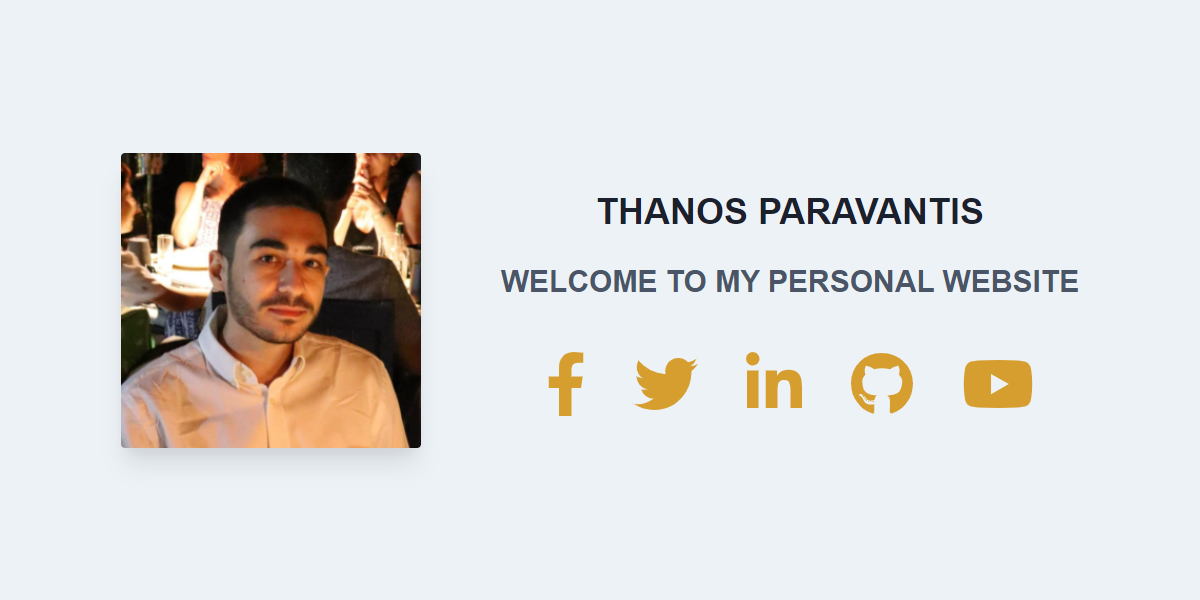
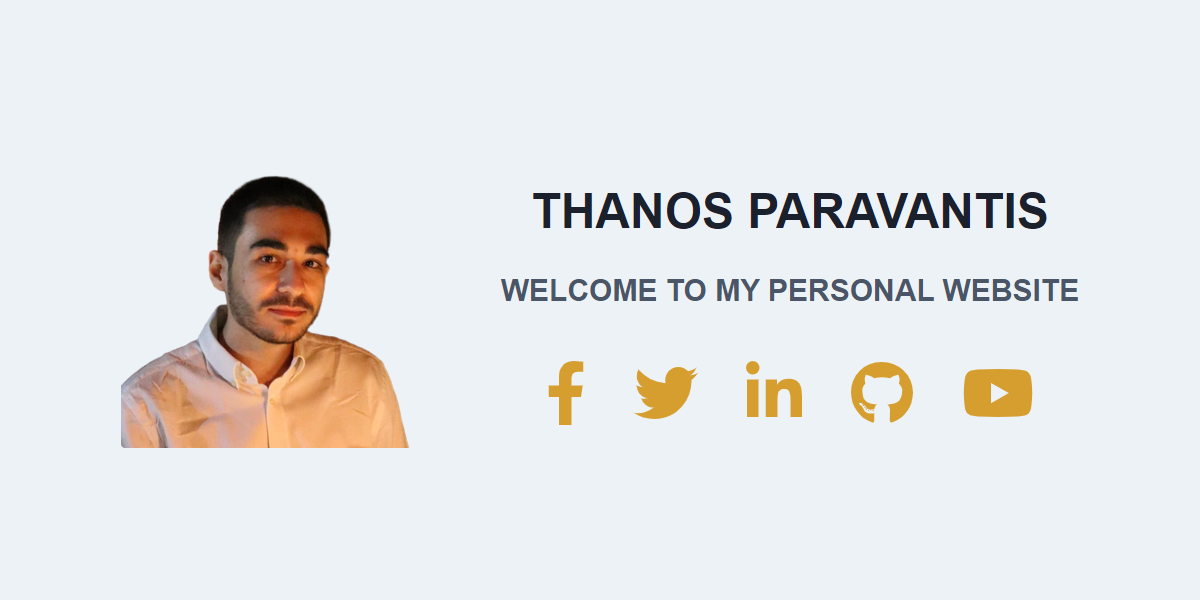
Updates

diff --git a/src/pages/seo.js b/src/pages/seo.js
@@ -1,5 +1,5 @@
 import React from "react"
-import image from "../images/profile_picture.png"
+import image from "../images/profile_picture_nobg.png"
 import { FontAwesomeIcon } from "@fortawesome/react-fontawesome"
 import { faFacebookF, faGithub, faLinkedinIn, faTwitter, faYoutube } from "@fortawesome/free-brands-svg-icons"
 
@@ -7,10 +7,10 @@ export default () => (
   <div style={{ width: "1200px", "height": "600px" }}
        className="flex items-center justify-center text-center bg-gray-200 ml-40 mt-20">
 
-    <img src={image} className="rounded shadow-xl" alt="Profile picture of Thanos Paravantis" style={{ width: "300px" }} />
+    <img src={image} className="rounded" alt="Profile picture of Thanos Paravantis" style={{ width: "300px" }} />
 
     <div className="font-bold uppercase ml-20">
-      <h1 className="mb-5 text-4xl text-gray-900">
+      <h1 className="mb-5 text-5xl text-gray-900">
         Thanos Paravantis
       </h1>
       <p className="text-3xl text-gray-700 mb-12">
